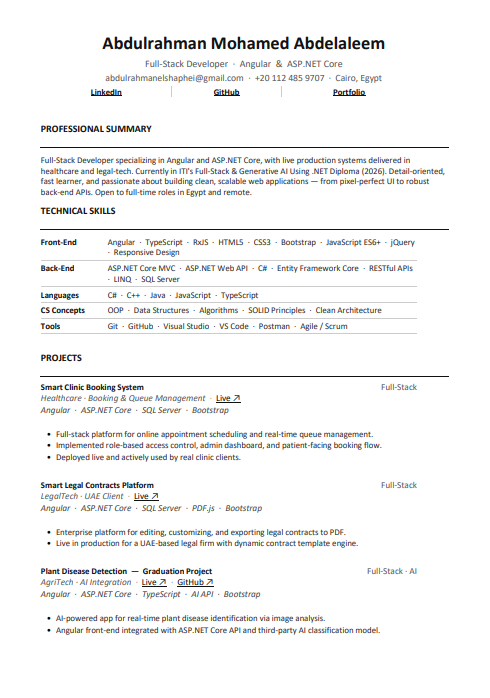
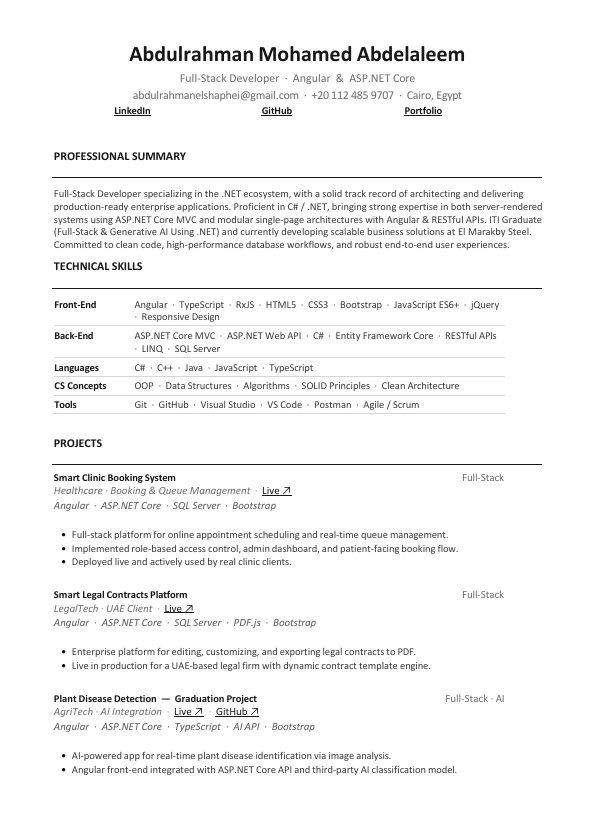
Sixth

diff --git a/index.html b/index.html
@@ -1652,13 +1652,11 @@
           "Detail-oriented developer focused on responsive, user-focused applications with clean, maintainable code."
         </div>
         <p class="about-body-txt">
-          I'm a Full Stack Developer skilled in Angular, TypeScript, HTML5/CSS3, and Bootstrap on the frontend — paired
-          with ASP.NET Core, C#, SQL Server, and Entity Framework on the backend. I gained hands-on experience through
-          professional training programs at Route Academy and ITI, plus freelance projects.
-        </p>
-        <p class="about-body-txt">
-          Currently enrolled in the ITI Full-Stack & Generative AI Development Diploma. I'm focused on applying
-          front-end expertise while deepening .NET knowledge to contribute effectively to real-world projects.
+         Full-Stack Developer specializing in the .NET ecosystem, with a solid track record of architecting and delivering 
+         production-ready enterprise applications. Proficient in C# / .NET, bringing strong expertise in both server-rendered 
+         systems using ASP.NET Core MVC and modular single-page architectures with Angular & RESTful APIs. ITI Graduate 
+         (Full-Stack & Generative AI Using .NET) and currently developing scalable business solutions at El Marakby Steel. 
+         Committed to clean code, high-performance database workflows, and robust end-to-end user experiences.
         </p>
         <div class="about-tags">
           <span class="atag">ASP.NET Core</span>
@@ -1923,7 +1921,18 @@
       <div class="exp-track">
 
         <div class="exp-card active-role">
-          <div class="exp-year">Jan 2026 — Present</div>
+          <div class="exp-year">Oct 2026 — Present</div>
+          <div class="exp-dot"></div>
+          <div class="exp-role-title">Full-Stack Developer | El Marakby Steel</div>
+          <div class="exp-company-name">elmarakby steel · 6 October</div>
+          <ul class="exp-bullets">
+            <li>Co-developed an in-house enterprise ERP using ASP.NET Core MVC, C#, and SQL Server for core operations.</li>
+            <li>Integrated ERP modules with SAP and enterprise services to ensure real-time data synchronization.</li>
+          </ul>
+        </div>
+
+        <div class="exp-card">
+          <div class="exp-year">Jan 2026 — Jul 2026</div>
           <div class="exp-dot"></div>
           <div class="exp-role-title">ITI Diploma</div>
           <div class="exp-company-name">ITI · MCIT · Menofia Branch</div>
@@ -1934,7 +1943,7 @@
         </div>
 
         <div class="exp-card">
-          <div class="exp-year">2024 — Present</div>
+          <div class="exp-year">2025 — Present</div>
           <div class="exp-dot"></div>
           <div class="exp-role-title">Freelance Developer</div>
           <div class="exp-company-name">Self-Employed · Remote</div>
